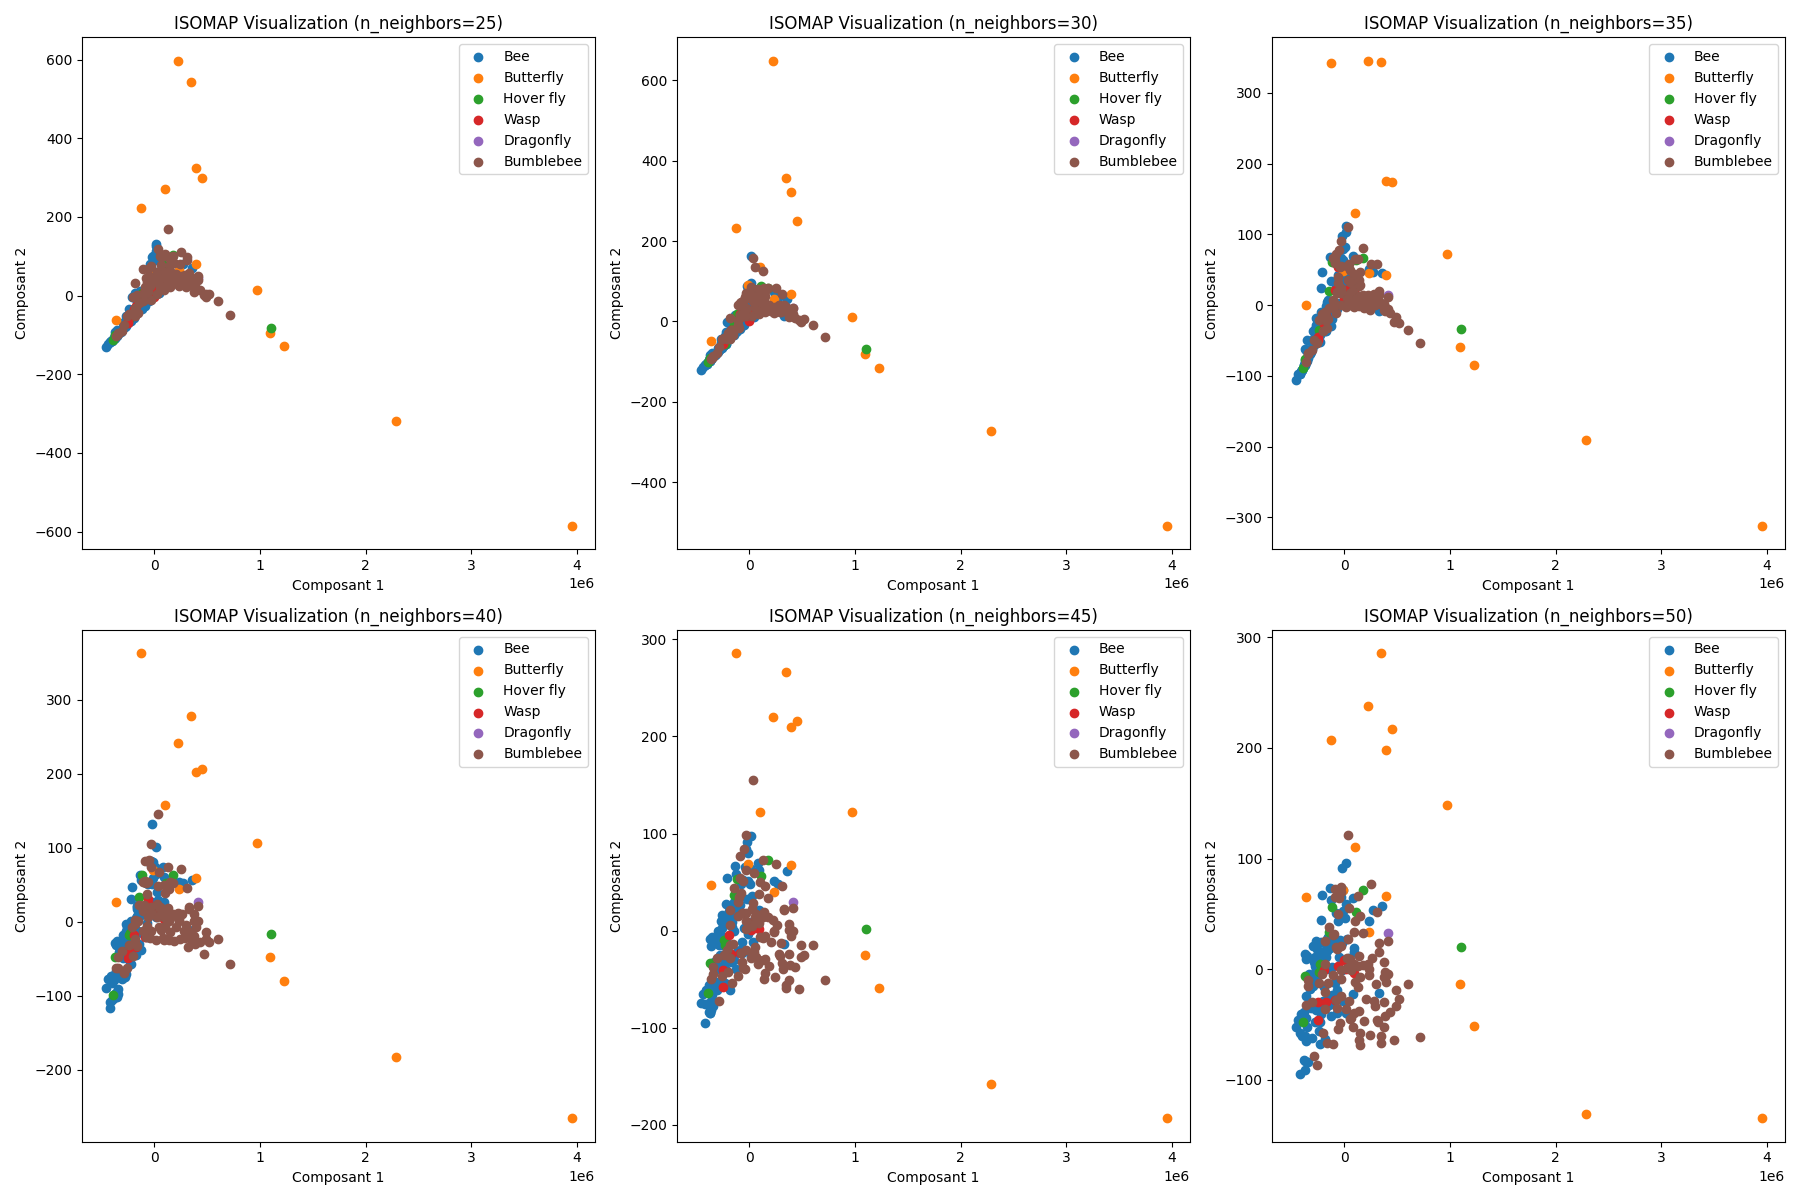
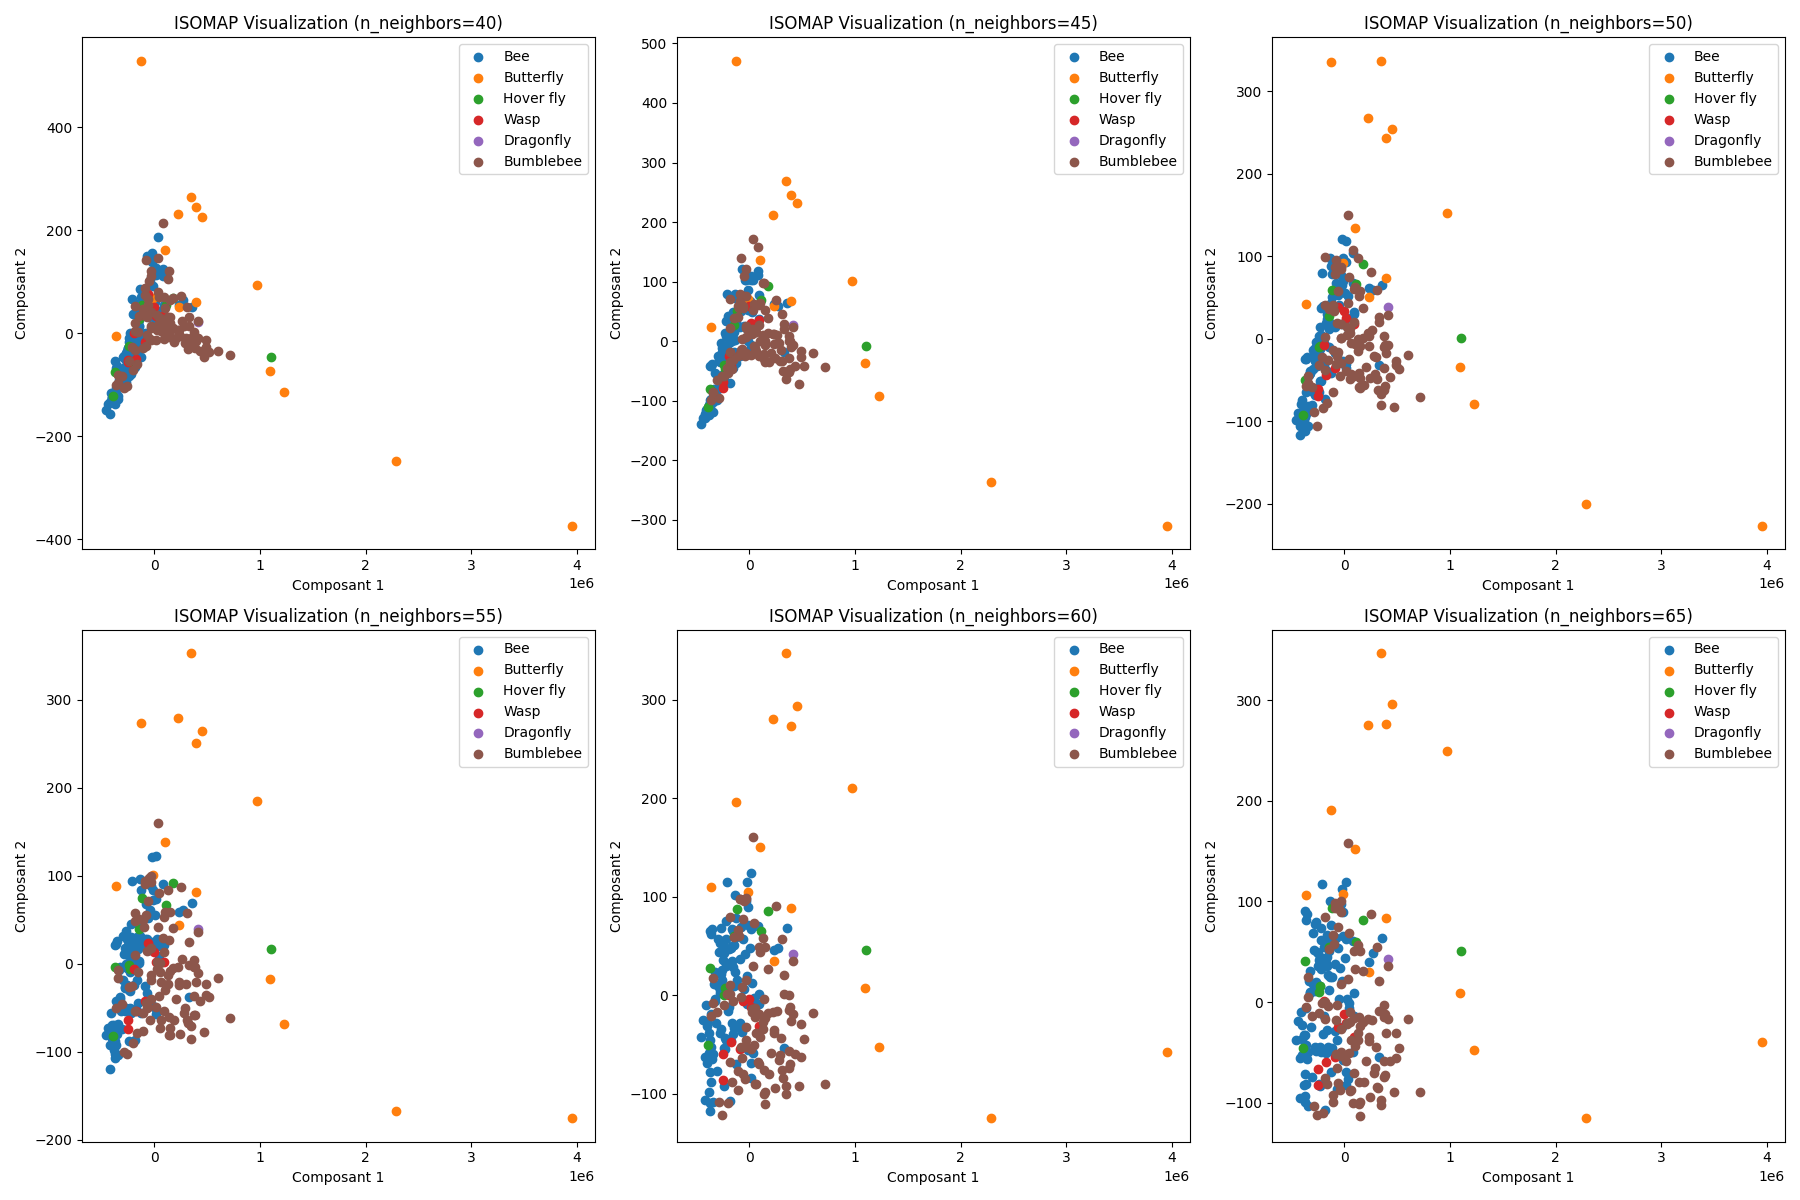
PCA tree visualization

diff --git a/dataVisualization/visualization.py b/dataVisualization/visualization.py
@@ -1,6 +1,7 @@
 # Imports
 
 import matplotlib.pyplot as plt
+import numpy as np
 import pandas as pd
 import seaborn as sns
 from sklearn.preprocessing import StandardScaler
@@ -11,11 +12,13 @@ from sklearn.manifold import LocallyLinearEmbedding, MDS, Isomap, TSNE
 df = pd.read_csv('project_data/dataVisualization/result.csv')
 types = df['bug type'].unique().tolist()
 types.remove('Bee & Bumblebee')
+species = df['species'].unique().tolist()
 
 # Get feature names
 feat_names = df.columns.tolist()
 feat_names.remove('species')
 feat_names.remove('bug type')
+nb_features = len(feat_names)
 
 # Boxplot displaying Area of bugs by type
 
@@ -69,7 +72,7 @@ pc1 = round(pca.explained_variance_ratio_[0] * 100,2)
 pc2 = round(pca.explained_variance_ratio_[1] * 100,2)
 
 
-# Plotting PCA visualization 
+# Plotting PCA visualization for bug type
 
 fig, ax = plt.subplots();
 for type in types:
@@ -80,6 +83,46 @@ ax.set_xlabel("PC1 ({0}% of explained variance)".format(pc1, fontsize=12));
 ax.set_ylabel("PC2 ({0}% of explained variance)".format(pc2, fontsize=12));
 ax.set_title('PCA space', fontsize=12);
 plt.savefig('project_data/dataVisualization/graphs/scatter_pca.png')
+
+# Plotting PCA visualization for species
+
+fig, ax = plt.subplots();
+for specie in species:
+    ax.scatter(df_pca[df["species"]==specie, 0], df_pca[df["species"]==specie, 1],label=specie);
+
+ax.legend();
+ax.set_xlabel("PC1 ({0}% of explained variance)".format(pc1, fontsize=12));
+ax.set_ylabel("PC2 ({0}% of explained variance)".format(pc2, fontsize=12));
+ax.set_title('PCA space', fontsize=12);
+plt.savefig('project_data/dataVisualization/graphs/scatter_pca_species.png')
+
+#Correlation circle
+
+correlation_matrix = np.corrcoef(dfn[feat_names].T, df_pca.T)
+
+# Plot the correlation circle with bug types in different colors and add a circle
+fig, ax = plt.subplots()
+
+an = np.linspace(0, 2 * np.pi, 100)
+ax.plot(np.cos(an), np.sin(an), 'b', linewidth=0.5) 
+
+for l in range(0, df.shape[0]):
+    ax.annotate(df.index[l], (df_pca[l, 0], df_pca[l, 1]),color='b')
+
+for i, (pc1, pc2) in enumerate(zip(correlation_matrix[0], correlation_matrix[1]), start=1):
+    ax.arrow(0, 0, pc1, pc2, color='r', alpha=0.5, head_width=0.1, head_length=0)
+    ax.text(pc1 * 1.1, pc2 * 1.1, feat_names[i-3], color='k', ha='center', va='center')
+
+
+ax.set_xlim(-1, 1)
+ax.set_ylim(-1, 1)
+ax.set_xlabel('PC1')
+ax.set_ylabel('PC2')
+ax.set_title('Correlation Circle with Bug Types')
+
+plt.grid()
+plt.savefig('project_data/dataVisualization/graphs/corrcircle.png')
+
 
 ## t-SNE 
 
@@ -106,7 +149,7 @@ plt.savefig('project_data/dataVisualization/graphs/tsne_visu.png')
 
 ## Isomap
 
-n_neighbors_values = [25,30,35,40,45,50]
+n_neighbors_values = [40,45,50,55,60,65]
 
 fig, axs = plt.subplots(2, 3, figsize=(18, 12))
 axs = axs.flatten()
@@ -126,47 +169,6 @@ for i, n_neighbors in enumerate(n_neighbors_values):
 
 plt.tight_layout()
 plt.savefig('project_data/dataVisualization/graphs/isomap.png')
-
-## LLE 
-
-n_neighbors_values = [4,5,6,7,8,9]
-
-fig, axs = plt.subplots(2, 3, figsize=(18, 12))
-axs = axs.flatten()
-
-for i, n_neighbors in enumerate(n_neighbors_values):
-    lle = LocallyLinearEmbedding(n_neighbors=n_neighbors, n_components=2, random_state=0)
-    df_reduced = lle.fit_transform(df[feat_names])
-
-    ax = axs[i]
-    for type in types:
-        ax.scatter(df_reduced[df['bug type'] == type, 0], df_reduced[df['bug type'] == type, 1], label=type)
-
-    ax.legend()
-    ax.set_xlabel("Composant 1")
-    ax.set_ylabel("Composant 2")
-    ax.set_title(f"LLE Visualization (n_neighbors={n_neighbors})")
-
-plt.tight_layout()
-plt.savefig('project_data/dataVisualization/graphs/lle.png')
-
-## MDS 
-
-# MDS
-
-mds = MDS(n_components=2, random_state=0)
-df_mds = mds.fit_transform(df[feat_names])
- 
-fig, ax = plt.subplots()
-for type in types:
-    ax.scatter(df_mds[df['bug type'] == type, 0], df_mds[df['bug type'] == type, 1], label=type)
-
-ax.legend()
-ax.set_xlabel("MDS Component 1")
-ax.set_ylabel("MDS Component 2")
-ax.set_title('MDS Visualization')
-
-plt.savefig('project_data/dataVisualization/graphs/mds.png')
 
 plt.figure(figsize=(8, 6))
 for type in types:
